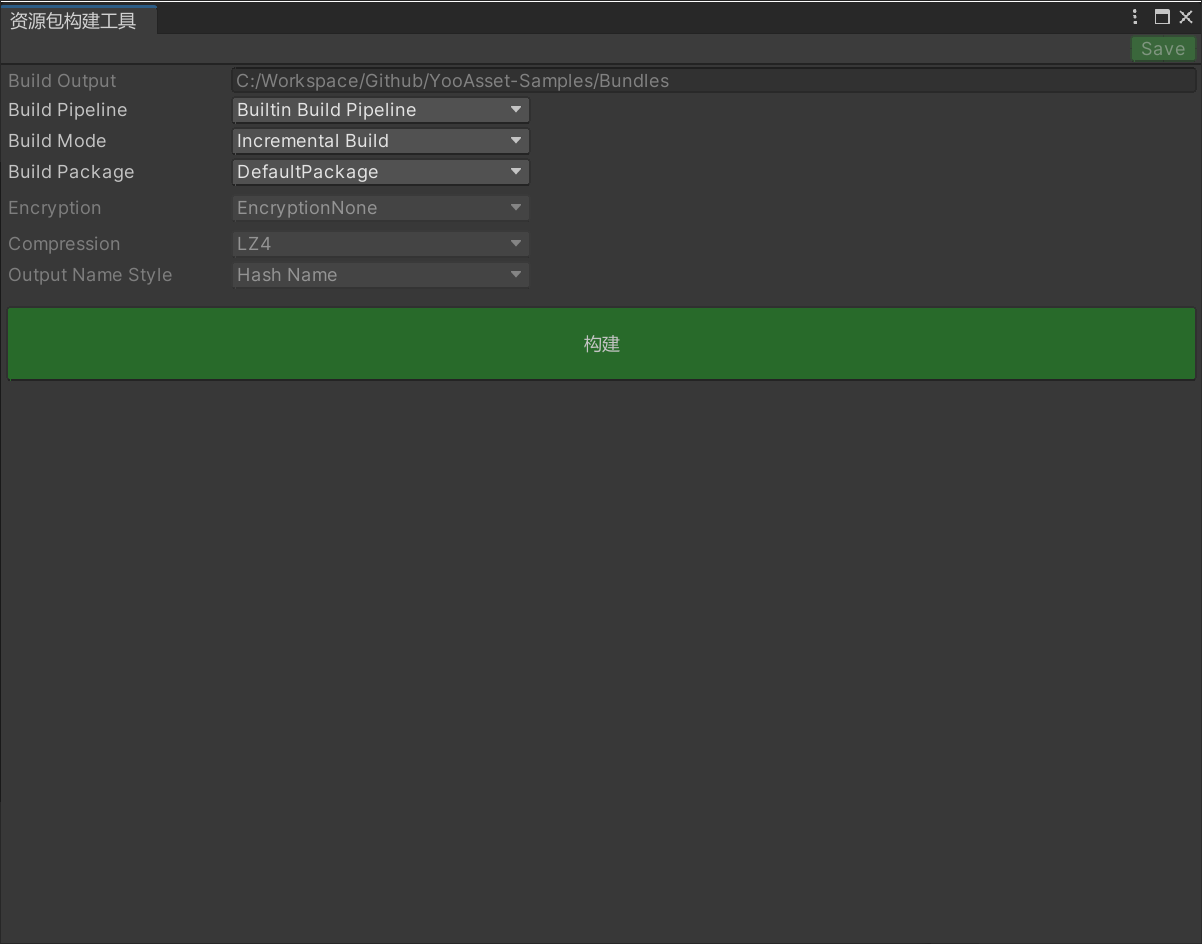
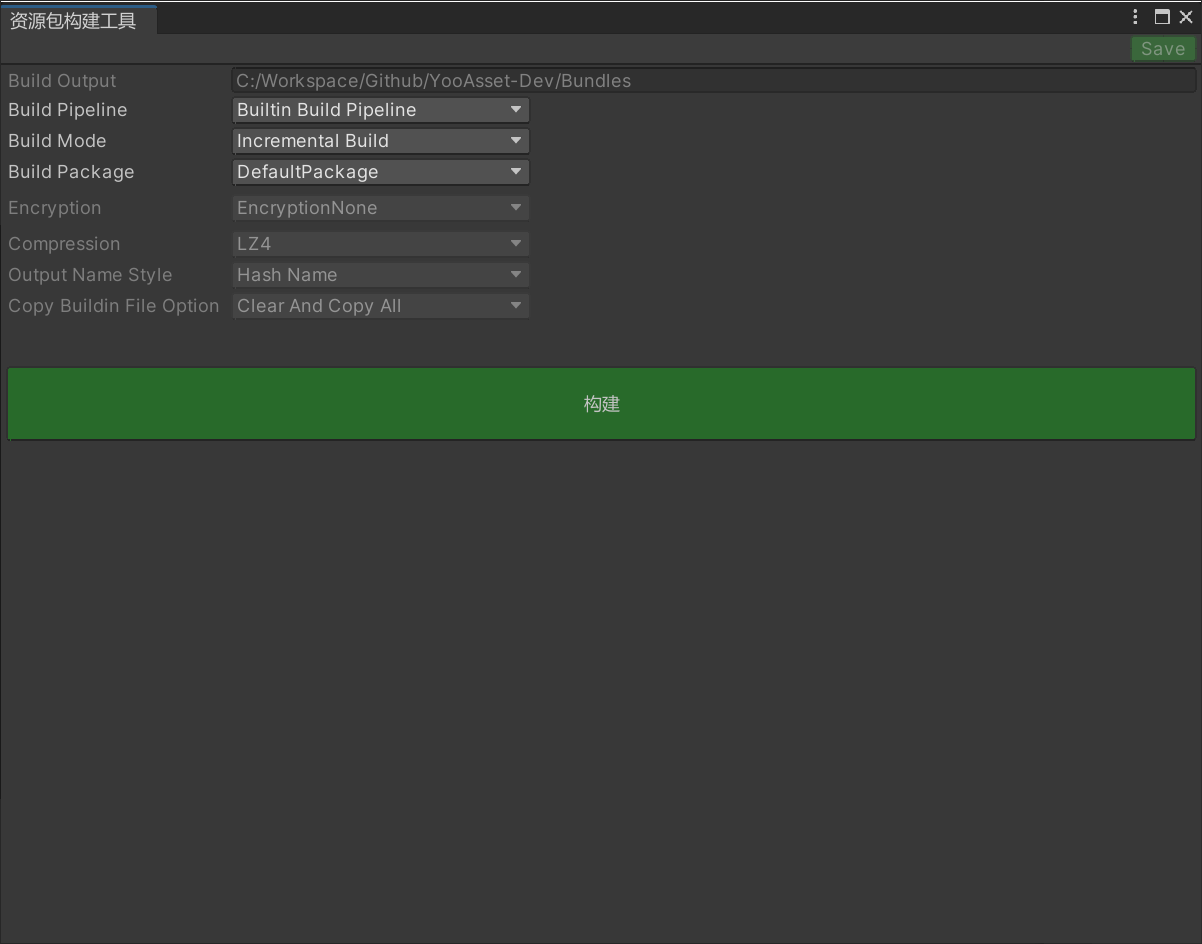
Update document

Changed region(s): [[0.0, 0.3072, 1.0, 0.4915], [0.4309, 0.0614, 0.5541, 0.0922]]

diff --git a/Docs/CodeTutorial1.md b/Docs/CodeTutorial1.md
@@ -3,7 +3,14 @@
 初始化资源系统
 
 ```c#
+// 初始化资源系统
 YooAssets.Initialize();
+
+// 创建默认的资源包
+var defaultPackage = YooAssets.CreateAssetsPackage("DefaultPackage");
+
+// 设置该资源包为默认的资源包，可以使用YooAssets相关加载接口加载该资源包内容。
+YooAssets.SetDefaultAssetsPackage(defaultPackage);
 ```
 
 资源系统的运行模式支持三种：编辑器模拟模式，单机运行模式，联机运行模式。
@@ -17,10 +24,10 @@ YooAssets.Initialize();
 ````c#
 private IEnumerator InitializeYooAsset()
 {
-    var initParameters = new YooAssets.EditorSimulateModeParameters();
+    var initParameters = new EditorSimulateModeParameters();
     initParameters.LocationServices = new DefaultLocationServices("Assets/GameRes");
-    initParameters.SimulatePatchManifestPath = EditorSimulateModeHelper.SimulateBuild("DefaultPackage", false);
-    yield return YooAssets.InitializeAsync(initParameters);
+    initParameters.SimulatePatchManifestPath = EditorSimulateModeHelper.SimulateBuild("DefaultPackage");
+    yield return defaultPackage.InitializeAsync(initParameters);
 }
 ````
 
@@ -33,9 +40,9 @@ private IEnumerator InitializeYooAsset()
 ````c#
 private IEnumerator InitializeYooAsset()
 {
-    var initParameters = new YooAssets.OfflinePlayModeParameters();
+    var initParameters = new OfflinePlayModeParameters();
     initParameters.LocationServices = new DefaultLocationServices("Assets/GameRes");
-    yield return YooAssets.InitializeAsync(initParameters);
+    yield return defaultPackage.InitializeAsync(initParameters);
 }
 ````
 
@@ -55,22 +62,22 @@ private IEnumerator InitializeYooAsset()
   
 - DecryptionServices : 如果资源包在构建的时候有加密，需要提供实现IDecryptionServices接口的实例类。
 
+- QueryServices：内置资源查询服务接口。
+
 - DefaultHostServer : 默认的资源服务器IP地址。
 
 - FallbackHostServer : 备用的资源服务器IP地址。
 
-- VerifyLevel : 下载文件校验等级
-
 ````c#
 private IEnumerator InitializeYooAsset()
 {
-    var initParameters = new YooAssets.HostPlayModeParameters();
+    var initParameters = new HostPlayModeParameters();
     initParameters.LocationServices = new DefaultLocationServices("Assets/GameRes");
     initParameters.DecryptionServices = new BundleDecryptionServices();
     initParameters.QueryServices = new QueryStreamingAssetsServices();
     initParameters.DefaultHostServer = "http://127.0.0.1/CDN1/Android/v1.0";
     initParameters.FallbackHostServer = "http://127.0.0.1/CDN2/Android/v1.0";
-    yield return YooAssets.InitializeAsync(initParameters);
+    yield return defaultPackage.InitializeAsync(initParameters);
 }
 
 // 文件解密服务类
@@ -88,7 +95,8 @@ private class QueryStreamingAssetsServices : IQueryServices
     public bool QueryStreamingAssets(string fileName)
     {
         // 注意：使用了BetterStreamingAssets插件
-        return BetterStreamingAssets.FileExists($"YooAssets/{fileName}");
+        string buildinFolderName = YooAssets.GetStreamingAssetBuildinFolderName();
+        return BetterStreamingAssets.FileExists($"{buildinFolderName}/{fileName}");
     }
 }
 ````

diff --git a/Docs/CodeTutorial2.md b/Docs/CodeTutorial2.md
@@ -9,7 +9,8 @@
 ````c#
 private IEnumerator UpdateStaticVersion()
 {
-    UpdateStaticVersionOperation operation = YooAssets.UpdateStaticVersionAsync();
+    var package = YooAssets.GetAssetsPackage("DefaultPackage");
+    UpdateStaticVersionOperation operation = package.UpdateStaticVersionAsync();
     yield return operation;
 
     if (operation.Status == EOperationStatus.Succeed)
@@ -33,7 +34,8 @@ private IEnumerator UpdateStaticVersion()
 ````c#
 private IEnumerator UpdatePatchManifest()
 {
-    UpdateManifestOperation operation = YooAssets.UpdateManifestAsync(packageCRC);
+    var package = YooAssets.GetAssetsPackage("DefaultPackage");
+    UpdateManifestOperation operation = package.UpdateManifestAsync(packageCRC);
     yield return operation;
 
     if (operation.Status == EOperationStatus.Succeed)
@@ -56,15 +58,15 @@ private IEnumerator UpdatePatchManifest()
 
 补丁包下载接口：
 
-- YooAssets.CreatePatchDownloader(int downloadingMaxNumber, int failedTryAgain)
+- YooAssets.CreatePatchDownloader(int downloadingMaxNumber, int failedTryAgain, int timeout)
 
   用于下载更新当前资源版本所有的资源包文件。
 
-- YooAssets.CreatePatchDownloader(string[] tags, int downloadingMaxNumber, int failedTryAgain)
+- YooAssets.CreatePatchDownloader(string[] tags, int downloadingMaxNumber, int failedTryAgain, int timeout)
 
   用于下载更新资源标签指定的资源包文件。
 
-- YooAssets.CreateBundleDownloader(string[] locations, int downloadingMaxNumber, int failedTryAgain)
+- YooAssets.CreateBundleDownloader(string[] locations, int downloadingMaxNumber, int failedTryAgain, int timeout)
 
   用于下载更新指定的资源列表依赖的资源包文件。
 
@@ -73,7 +75,8 @@ IEnumerator Download()
 {
     int downloadingMaxNum = 10;
     int failedTryAgain = 3;
-    DownloaderOperation downloader = YooAssets.CreatePatchDownloader(downloadingMaxNum, failedTryAgain);
+    int timeout = 60;
+    var downloader = YooAssets.CreatePatchDownloader(downloadingMaxNum, failedTryAgain, timeout);
     
     //没有需要下载的资源
     if (downloader.TotalDownloadCount == 0)
@@ -114,7 +117,8 @@ IEnumerator Download()
 ````c#
 private IEnumerator UpdateStaticVersion()
 {
-    UpdateStaticVersionOperation operation = YooAssets.UpdateStaticVersionAsync(10);
+    var package = YooAssets.GetAssetsPackage("DefaultPackage");
+    UpdateStaticVersionOperation operation = package.UpdateStaticVersionAsync(10);
     yield return operation;
     if (operation.Status == EOperationStatus.Succeed)
     {
@@ -135,7 +139,7 @@ private IEnumerator UpdateStaticVersion()
         }
         
         // 在弱联网情况下更新补丁清单
-        UpdateManifestOperation operation2 = YooAssets.WeaklyUpdateManifestAsync(packageCRC);
+        UpdateManifestOperation operation2 = package.WeaklyUpdateManifestAsync(packageCRC);
         yield return operation2;
         if (operation2.Status == EOperationStatus.Succeed)
         {

diff --git a/Docs/CodeTutorial3.md b/Docs/CodeTutorial3.md
@@ -18,9 +18,9 @@
 ```c#
 // 以工程内的音频文件为例："Assets/GameRes/Audio/bgMusic.mp3" 
 // 设定资源路径的根目录为："Assets/GameRes"，后续加载的资源定位地址填写相对路径："Audio/bgMusic"
-var createParameters = new YooAssets.EditorSimulateModeParameters();
+var createParameters = new EditorSimulateModeParameters();
 createParameters.LocationServices = new DefaultLocationServices("Assets/GameRes");
-yield return YooAssets.InitializeAsync(createParameters);
+yield return defaultPackage.InitializeAsync(createParameters);
 ......
 YooAssets.LoadAssetAsync<AudioClip>("Audio/bgMusic");
 ```
@@ -31,9 +31,9 @@ YooAssets.LoadAssetAsync<AudioClip>("Audio/bgMusic");
 // 以工程内的音频文件为例："Assets/GameRes/Audio/bgMusic.mp3" 
 // 需要在资源配置界面启用可寻址功能（Enable Addressable）。
 // 配置界面的可寻址规则为AddressByFileName，那么资源定位地址填写文件名称："bgMusic"
-var createParameters = new YooAssets.EditorSimulateModeParameters();
+var createParameters = new EditorSimulateModeParameters();
 createParameters.LocationServices = new AddressLocationServices();
-yield return YooAssets.InitializeAsync(createParameters);
+yield return defaultPackage.InitializeAsync(createParameters);
 ......
 YooAssets.LoadAssetAsync<AudioClip>("bgMusic");
 ````
@@ -104,7 +104,8 @@ IEnumerator Start()
 ````c#
 private void UnloadAssets()
 {
-    YooAssets.UnloadUnusedAssets();
+    var package = YooAssets.GetAssetsPackage("DefaultPackage");
+    package.UnloadUnusedAssets();
 }
 ````
 

diff --git a/Docs/CodeTutorial4.md b/Docs/CodeTutorial4.md
@@ -65,7 +65,7 @@ go.transform.localScale    = Vector3.one;
 在运行游戏之前，请保证资源包可以构建成功！
 
 ```c#
-public static YooAssetPackage AssetPackage;
+public static AssetPackage DefaultPackage;
 
 IEnumerator Start()
 {
@@ -73,24 +73,24 @@ IEnumerator Start()
     YooAssets.Initialize();
     
     // 创建资源包实例
-    AssetPackage = YooAssets.CreateAssetPackage("DefaultPackage");
+    DefaultPackage = YooAssets.CreateAssetPackage("DefaultPackage");
     
     // 初始化资源包
     ......
-    yield return AssetPackage.InitializeAsync(createParameters);
+    yield return DefaultPackage.InitializeAsync(createParameters);
     
     // 更新资源包版本
     ......
-    var operation = AssetPackage.UpdateManifestAsync(packageCRC);
+    var operation = DefaultPackage.UpdateManifestAsync(packageCRC);
     yield return operation;
     
     // 下载更新文件
-    var downloader = AssetPackage.CreatePatchDownloader(downloadingMaxNum, failedTryAgain);
+    var downloader = DefaultPackage.CreatePatchDownloader(downloadingMaxNum, failedTryAgain);
     downloader.BeginDownload();
     yield return downloader;
     
     // 加载资源对象
-    var assetHandle = AssetPackage.LoadAssetAsync("Assets/GameRes/npc.prefab");
+    var assetHandle = DefaultPackage.LoadAssetAsync("Assets/GameRes/npc.prefab");
     yield return assetHandle;
     ......
 }

diff --git a/Docs/AssetBundleBuilder.md b/Docs/AssetBundleBuilder.md
@@ -52,6 +52,20 @@
 
   (4) BundleName_HashName_Extension：资源包名+哈希值+后缀名
 
+ - **Copy Buildin File Option**
+
+   首包资源文件的拷贝方式
+
+   (1) None：不拷贝任何文件
+
+   (2) ClearAndCopyAll：先清空已有文件，然后拷贝所有文件
+
+   (3) ClearAndCopyByTags：先清空已有文件，然后按照资源标签拷贝文件
+
+   (4) OnlyCopyAll：不清空已有文件，直接拷贝所有文件
+
+   (5) OnlyCopyByTags：不清空已有文件，直接按照资源标签拷贝文件
+
 - **构建**
 
   点击构建按钮会开始构建流程，构建流程分为多个节点顺序执行，如果某个节点发生错误，会导致构建失败。错误信息可以在控制台查看。
@@ -126,6 +140,7 @@ private static void BuildInternal(BuildTarget buildTarget)
     buildParameters.EncryptionServices = new GameEncryption();
     buildParameters.CompressOption = ECompressOption.LZ4;
     buildParameters.OutputNameStyle = EOutputNameStyle.HashName_Extension;
+    buildParameters.CopyBuildinFileOption = ECopyBuildinFileOption.None;
     
     // 执行构建
     AssetBundleBuilder builder = new AssetBundleBuilder();

diff --git a/Docs/FAQ.md b/Docs/FAQ.md
@@ -17,6 +17,10 @@ windows平台添加命令: **-force-gles**
 
 YooAsset依赖于ScriptBuildPipeline（SBP），在PackageManager里找到SBP插件安装就可以了。
 
+#### 问题：使用FileZilla等FTP上传工具后，文件下载总是验证失败
+
+把传输类型修改为二进制就可以了。
+
 #### 问题：YooAsset支持Unity2018吗
 
 YooAsset分俩部分，编辑器代码和运行时代码。因为工具界面是使用UIElements编写的，所以在Unity2019以前的版本是使用不了界面化工具。但是这并没有影响我们使用YooAsset，以下提供一种解决方案。

diff --git a/Docs/AssetBundleCollector.md b/Docs/AssetBundleCollector.md
@@ -10,6 +10,10 @@
 
 #### 公共设置
 
+- Show Packages
+
+  是否展示资源包列表视图。
+  
 - Enable Addressable
 
   启用可寻址资源定位系统。
